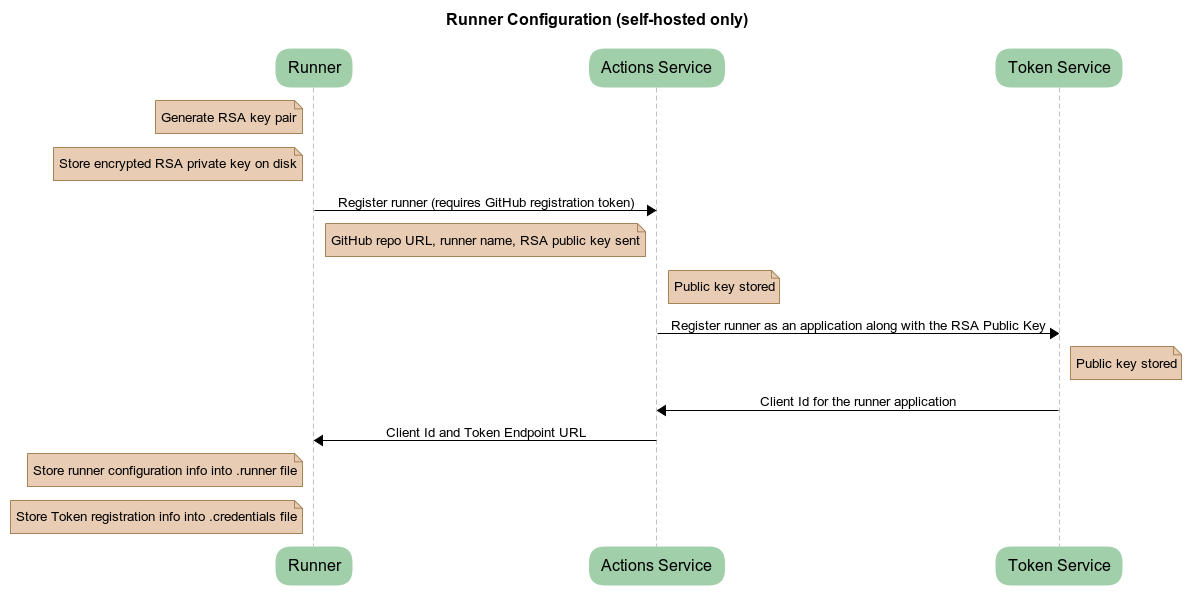
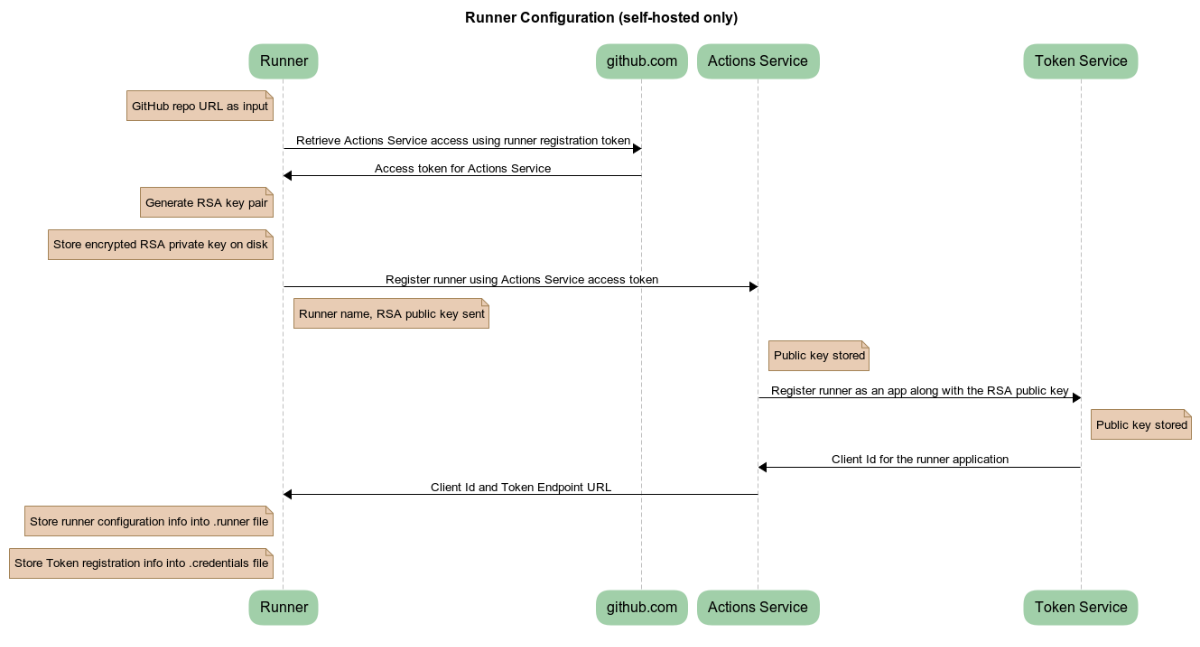
More PR feedback, standardize 'OAuth token' terms

diff --git a/docs/design/auth.md b/docs/design/auth.md
@@ -4,7 +4,8 @@
   - Support runner installs in untrusted domains.
   - The account that configures or runs the runner process is not relevant for accessing GitHub resources.
   - Accessing GitHub resources is done with a per-job token which expires when job completes.
-  - The token is granted to trusted parts of the system including the runner, actions and script steps specified by the workflow author as trusted. 
+  - The token is granted to trusted parts of the system including the runner, actions and script steps specified by the workflow author as trusted.
+  - All OAuth tokens that come from the Token Service that the runner uses to access Actions Service resources are the same. It's just the scope and expiration of the token that may vary.
 
 ## Configuration
 
@@ -16,9 +17,9 @@ Configuration is done with the user being authenticated via a time-limited, GitH
 
 ![Self-hosted runner config](../res/self-hosted-config.png)
 
-During configuration, an RSA public/private key pair is created, the private key is stored in file on disk. On Windows, the content is protected with DPAPI (machine level encrypted - runner only valid on that machine) and on Linux/OSX with chmod permissions.
+During configuration, an RSA public/private key pair is created, the private key is stored in file on disk. On Windows, the content is protected with DPAPI (machine level encrypted - runner only valid on that machine) and on Linux/OSX with `chmod` permissions.
 
-Using your credentials, the runner is registered with the service by sending the public key to the service which adds that runner to the pool and stores the public key, STS will generate clientId associated with the public key.
+Using your credentials, the runner is registered with the service by sending the public key to the service which adds that runner to the pool and stores the public key, the Token Service will generate a `clientId` associated with the public key.
 
 ## Start and Listen
 
@@ -26,24 +27,24 @@ After configuring the runner, the runner can be started interactively (`./run.cm
 
 ![Self-hosted runner start](../res/self-hosted-start.png)
 
-On start, the runner listener process loads the RSA private key (on windows decrypting with machine key DPAPI), sends a JWT token which signed by the private key to the service.
-The server response with an OAuth token that grants permission to access the message queue (HTTP long poll), allowing the runner to acquire the messages it will eventually run.
+On start, the runner listener process loads the RSA private key (on Windows decrypting with machine key DPAPI), and asks the Token Service for an OAuth token which is signed with the RSA private key.
+The server then responds with an OAuth token that grants permission to access the message queue (HTTP long poll), allowing the runner to acquire the messages it will eventually run.
 
 ## Run a workflow
 
 When a workflow is run, its labels are evaluated, it is matched to a runner and a message is placed in a queue of messages for that runner.  
-The runner is listening for jobs via the message queue HTTP long poll.  
+The runner then starts listening for jobs via the message queue HTTP long poll.  
 The message is encrypted with the runner's public key, stored during runner configuration.  
 
 ![Runner workflow run](../res/workflow-run.png)
 
 A workflow is queued as a result of a triggered [event](https://help.github.com/en/actions/reference/events-that-trigger-workflows). Workflows can be scheduled to [run at specific UTC times](https://help.github.com/en/actions/reference/events-that-trigger-workflows#scheduled-events-schedule) using POSIX `cron` syntax.
-A [JWT token](http://self-issued.info/docs/draft-ietf-oauth-json-web-token.html) is generated, granting limited access to the host in Actions Service associated with the github.com repository/organization.
-The lifetime of the JWT token is the lifetime of the run or at most the [job timeout (default: 6 hours)](https://help.github.com/en/actions/reference/workflow-syntax-for-github-actions#jobsjob_idtimeout-minutes), plus 10 additional minutes.
+An [OAuth token](http://self-issued.info/docs/draft-ietf-oauth-json-web-token.html) is generated, granting limited access to the host in Actions Service associated with the github.com repository/organization.
+The lifetime of the OAuth token is the lifetime of the run or at most the [job timeout (default: 6 hours)](https://help.github.com/en/actions/reference/workflow-syntax-for-github-actions#jobsjob_idtimeout-minutes), plus 10 additional minutes.
 
 ## Accessing GitHub resources
 
-The job message sent to the runner contains the token to talk back to the Actions Service.
+The job message sent to the runner contains the OAuth token to talk back to the Actions Service.
 The runner listener parent process will spawn a runner worker process for that job and send it the job message over IPC.
 The token is never persisted.
 
@@ -51,10 +52,10 @@ Each action is run as a unique subprocess.
 The encrypted access token will be provided as an environment variable in each action subprocess.  
 The token is registered with the runner as a secret and scrubbed from the logs as they are written.
 
-Authentication in a workflow run to github.com can be accomplished by using the [`GITHUB_TOKEN`](https://help.github.com/en/actions/configuring-and-managing-workflows/authenticating-with-the-github_token#about-the-github_token-secret)) secret. This token expires after 60 minutes. Please note that this token is different from the JWT token that the runner uses to talk to the Actions Service.
+Authentication in a workflow run to github.com can be accomplished by using the [`GITHUB_TOKEN`](https://help.github.com/en/actions/configuring-and-managing-workflows/authenticating-with-the-github_token#about-the-github_token-secret)) secret. This token expires after 60 minutes. Please note that this token is different from the OAuth token that the runner uses to talk to the Actions Service.
 
 ## Hosted runner authentication
 
-Hosted runner authentication differs from self-hosted authentication in that runners do not undergo a registration process, but instead, they get a 'limited scope token' at runtime to talk back to the Actions Service. The scope is limited for a given workflow job execution, and the token is revoked as soon as the job is finished. This is an implementation detail that workflow authors do not have to worry about when authoring/running workflows.
+Hosted runner authentication differs from self-hosted authentication in that runners do not undergo a registration process, but instead, the hosted runners get the OAuth token directly by reading the `.credentials` file. The scope of this particular token is limited for a given workflow job execution, and the token is revoked as soon as the job is finished.
 
 ![Hosted runner config and start](../res/hosted-config-start.png)
